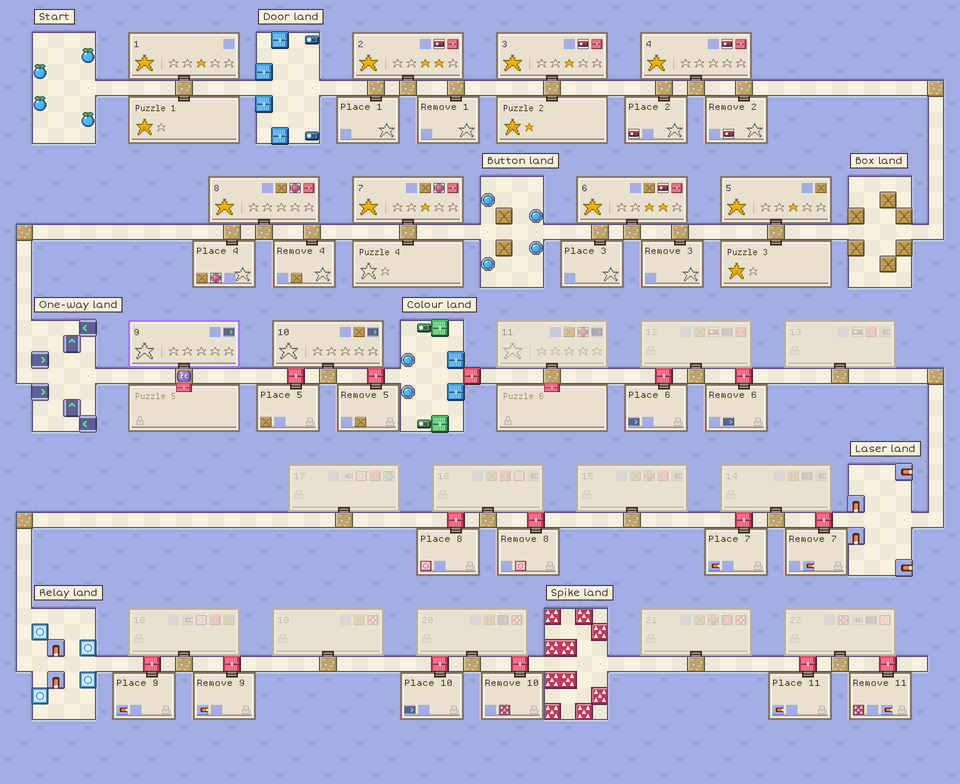
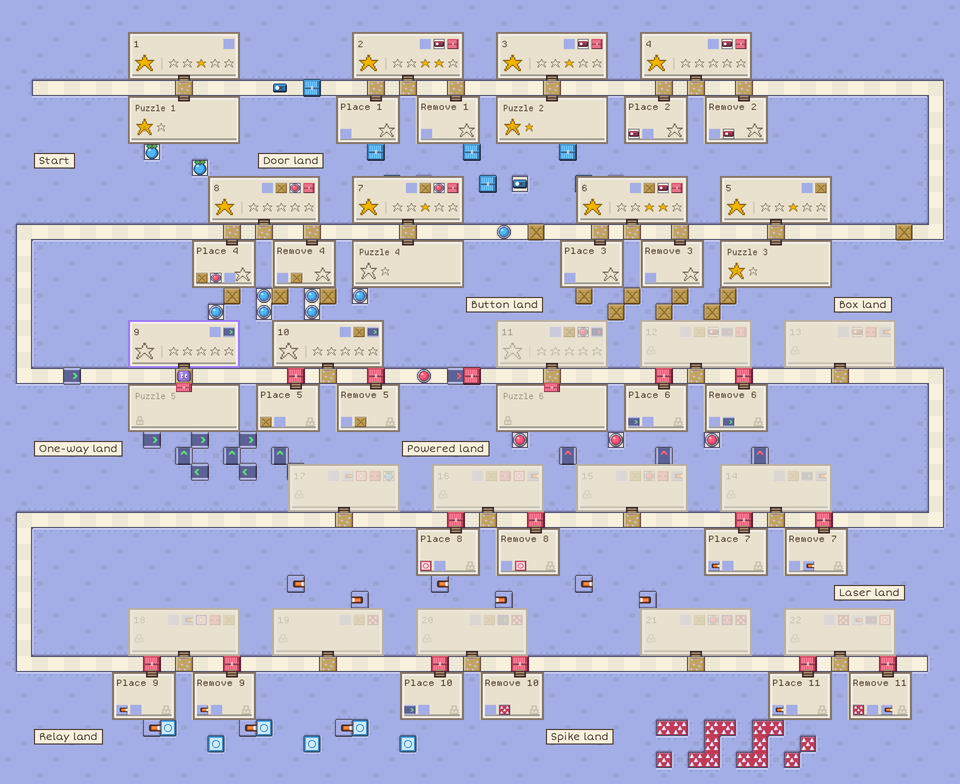
Sketch: map pieces beside each land, safe lasers, first-visit pieces, no corner gravel, Powered land (927-931)
Claude-Session: https://claude.ai/code/session_01S5VoDDtzPCPy9uyvxAQGvD

diff --git a/tools/sketch-map/map2.py b/tools/sketch-map/map2.py
@@ -10,7 +10,7 @@ by = {s['lv']: s for s in slots}
 BANDS = [
     [('Start', [1]), ('Door land', [2, 3, 4])],
     [('Box land', [5, 6]), ('Button land', [7, 8])],
-    [('One-way land', [9, 10]), ('Colour land', [11, 12, 13])],
+    [('One-way land', [9, 10]), ('Powered land', [11, 12, 13])],
     [('Laser land', [14, 15, 16, 17])],
     [('Relay land', [18, 19, 20]), ('Spike land', [21, 22])],
 ]
@@ -20,9 +20,9 @@ SCENERY = {
     'Box land': [('box', 0, 0), ('box', 2, 1), ('box', 3, 0)],
     'Button land': [('button:blue', 0, 1), ('button:blue', 3, 0), ('box', 1, 0)],
     'One-way land': [('gate:right', 0, 0), ('gate:up', 2, 1), ('gate:left', 3, 2)],
-    'Colour land': [('button:blue', 0, 0), ('door:blue', 3, 0), ('toggle:green', 1, 2), ('door:green', 2, 2)],
-    'Laser land': [('turret:down', 0, 0), ('turret:right', 3, 2)],
-    'Relay land': [('sensor:blue', 0, 1), ('sensor:blue', 3, 0), ('turret:down', 1, 0)],
+    'Powered land': [('button:red', 0, 0), ('gate:up@red', 3, 1)],
+    'Laser land': [('turret:right', 0, 0), ('turret:left', 4, 1)],
+    'Relay land': [('turret:right', 0, 0), ('sensor:blue', 1, 0), ('sensor:blue', 4, 1)],
     'Spike land': [('death', 0, 0), ('death', 1, 0), ('death', 3, 1), ('death', 2, 2), ('death', 0, 2)],
 }
 PLAZA = 5; SLOT = 9; X0 = 2; BW = 56
@@ -41,15 +41,25 @@ for b, band in enumerate(BANDS):
     for (name, lvs), w in zip(band, widths):
         # plaza: the land's own scenery round the street
         px = cur if east else cur - PLAZA + 1
-        for yy in range(y - 3, y + 4):
-            for xx in range(px, px + PLAZA - 1): setc(xx, yy, '')
-        for kind, dx, dy in SCENERY[name]:
-            for sy in (-1, 1):
-                xx, yy = px + dx, y + sy * (dy + 1)
-                if kind == 'box': ents.append({'kind': 'box', 'x': xx, 'y': yy, 'dir': 1, 'mode': 'input'})
-                elif kind.startswith('turret'): ents.append({'kind': 'turret', 'x': xx, 'y': yy, 'turret': {'dirs': [kind.split(':')[1]], 'mode': 'input'}})
-                else: setc(xx, yy, kind)
-        signs.append({'name': name, 'x': px, 'y': y - 4, 'right': not east})
+        step = (lambda d: px + d) if east else (lambda d: px + PLAZA - 1 - d)
+        def piece(kind, xx, yy):
+            if kind == 'box': setc(xx, yy, ''); ents.append({'kind': 'box', 'x': xx, 'y': yy, 'dir': 1, 'mode': 'input'})
+            elif kind.startswith('turret'): setc(xx, yy, ''); ents.append({'kind': 'turret', 'x': xx, 'y': yy, 'turret': {'dirs': [kind.split(':')[1]], 'mode': 'input'}})
+            else: setc(xx, yy, kind)
+        # the land's pieces lie about in the ground below it, off the path
+        span = PLAZA + SLOT * len(lvs); left = px if east else cur - span + 1
+        signx = px if east else px + PLAZA - 6
+        for k in range(3):
+            bx = left + 7 + k * ((span - 12) // 3) if east else left + 1 + k * ((span - 12) // 3)
+            for kind, dx, dy in SCENERY[name]:
+                piece(kind, bx + dx, y + 4 + dy)
+        # what happens on the way in, once, by itself
+        way = 'right' if east else 'left'
+        ENTRY = {'Door land': [('toggle:blue', 1), ('door:blue', 3)], 'Box land': [('box', 1)],
+                 'Button land': [('box', 1), ('button:blue', 3)], 'One-way land': [('gate:' + way, 2)],
+                 'Powered land': [('button:red', 1), ('gate:' + way + '@red', 3)]}
+        for kind, dd in ENTRY.get(name, []): piece(kind, step(dd), y)
+        signs.append({'name': name, 'x': signx, 'y': y + 5, 'right': not east})
         cur = cur + PLAZA if east else cur - PLAZA
         for lv in lvs:
             x0 = cur if east else cur - SLOT + 1
@@ -73,7 +83,6 @@ for b, band in enumerate(BANDS):
     if b < len(BANDS) - 1:
         cx = X0 + BW if east else X0 - 1
         for yy in range(y, y + BAND_H + 1): setc(cx, yy, '')
-        setc(cx, y, 'gravel'); setc(cx, y + BAND_H, 'gravel')
         for x in (range(X0 + BW - 1, X0 + BW + 1) if east else range(X0 - 1, X0 + 1)): setc(x, y + BAND_H, '')
 # locked side rooms: a closed door stands on their stop
 for p in place:

diff --git a/docs/REGISTER.md b/docs/REGISTER.md
@@ -933,8 +933,8 @@ outcome: **done** (commit), **declined** (why), or **moved** (where).
 | 924 | "it will have to be navigable by dragging around" | sketched in levels-map2-*.png (drag is a design note only) |
 | 925 | "Themed areas should have themed stuff close to it. Like spikes close to spike land." | sketched in levels-map2-*.png (drag is a design note only) |
 | 926 | "instead of a vertical corridor with the lands, they can turn corners" | sketched in levels-map2-*.png (drag is a design note only) |
-| 927 | "Don't do \"portals\" for areas, just place the components nearby. You don't have a sand gate in a sand Mario overworld, you just place sand next to it." | open |
-| 928 | "one of your lasers will kill Wee" | open |
-| 929 | "a basic interaction on the map when reaching a new area. Box land: push a box, button land: push a box on a button, one way: go through it... Automatic, not decision, it just happens when going there" | open |
-| 930 | "No need for gravel on corners if you don't have a three-way" | open |
-| 931 | "Colour land makes no sense we have hidden the dual color levels. Should be powered one way or similar" | open |
+| 927 | "Don't do \"portals\" for areas, just place the components nearby. You don't have a sand gate in a sand Mario overworld, you just place sand next to it." | sketched: pieces lie in the ground beside each land, no plazas |
+| 928 | "one of your lasers will kill Wee" | sketched: every turret sits walled in, its beam ends in a wall |
+| 929 | "a basic interaction on the map when reaching a new area. Box land: push a box, button land: push a box on a button, one way: go through it... Automatic, not decision, it just happens when going there" | sketched: door, box, button, one-way and powered lands have their first-visit pieces on the path; laser, relay, spike have none yet |
+| 930 | "No need for gravel on corners if you don't have a three-way" | sketched: corners carry no gravel |
+| 931 | "Colour land makes no sense we have hidden the dual color levels. Should be powered one way or similar" | sketched: renamed Powered land, a button and a powered one-way |
